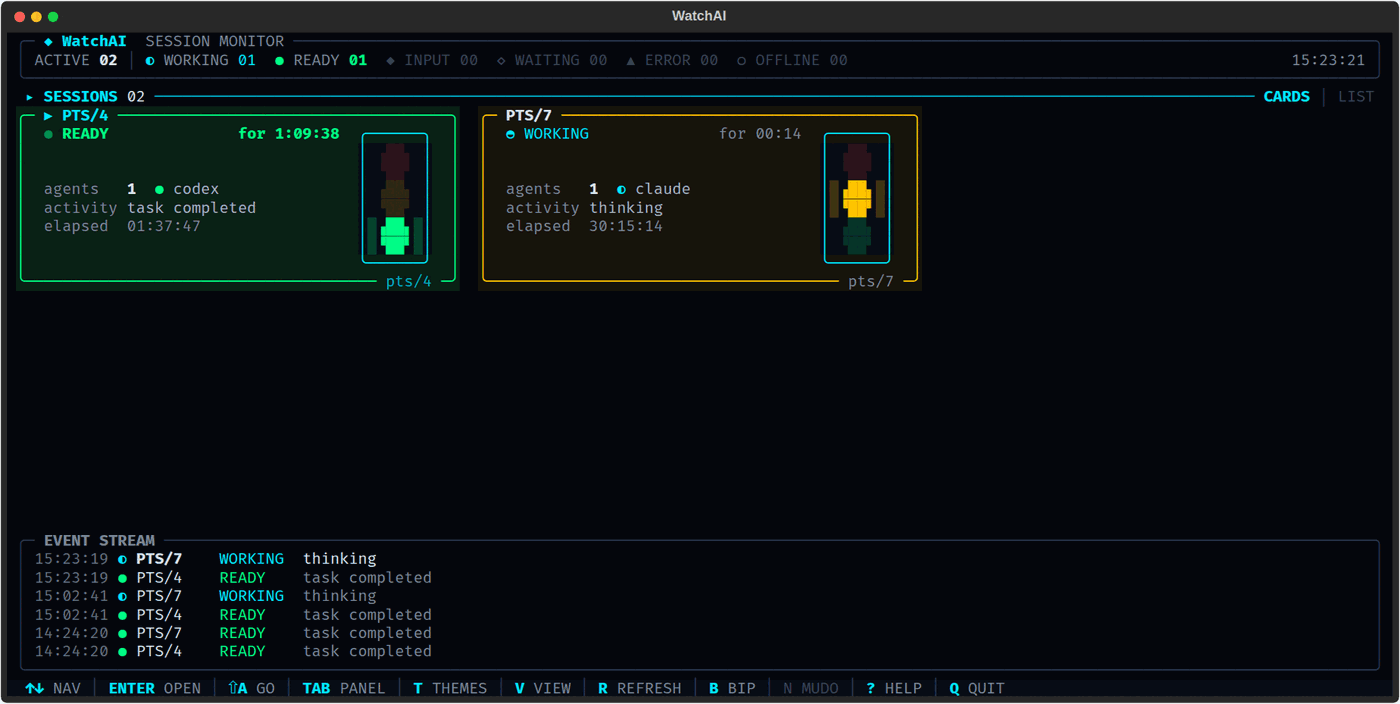
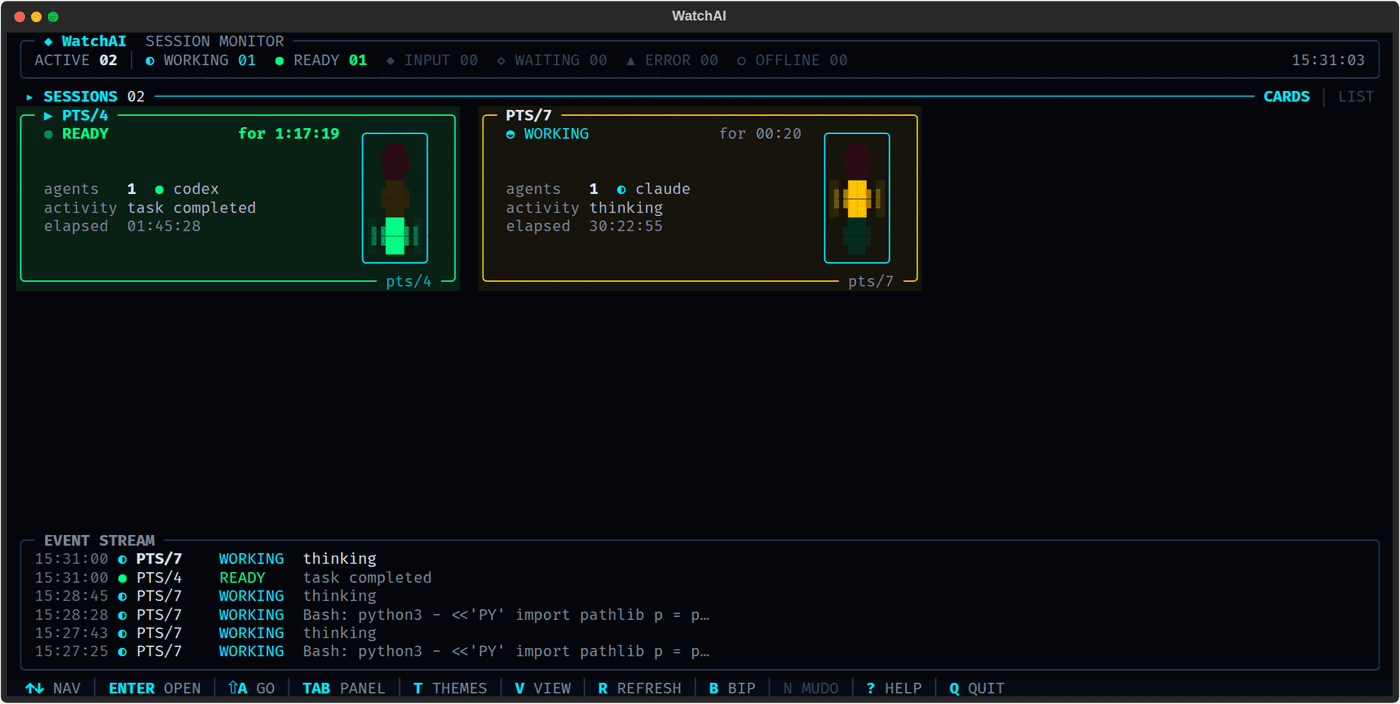
feat: semáforo sem fundo e lâmpada acesa em neon
A carcaça perdeu o fundo próprio: o card aparece através dela, no lugar
do retângulo escuro que ficava atrás das lâmpadas.

A lâmpada acesa virou neon de verdade, em quatro camadas de queda —
miolo na cor cheia, ponta cortada num tom intermediário, quadrante de
brilho encostado na bola e o fundo da célula apenas tingido.

O detalhe que fez funcionar: o halo usa o MESMO quadrante da ponta da
bola naquela linha. Tentei antes com meio-bloco inteiro (`▐`/`▌`) e o
resultado foi uma barra separada da bola por um vão — só que o vão não
era erro de alinhamento, era o próprio canto cortado dela. Medi os
pixels para ter certeza disso antes de mudar. Seguindo a silhueta, o
brilho encosta onde a bola é larga e recua onde ela é cortada.

diff --git a/src/watchai/widgets/traffic_light.py b/src/watchai/widgets/traffic_light.py
@@ -18,7 +18,8 @@ caracteres permite — em vez de um ponto. Em terminais estreitos entra a versã
 o que cabe.
 
 É o mesmo semáforo do ícone do app (`assets/watchai.svg`), desenhado em texto:
-carcaça de contorno **cyan**, interior escuro e três lâmpadas. A lâmpada acesa
+carcaça de contorno **cyan**, sem fundo próprio (o card aparece através dela) e
+três lâmpadas. A lâmpada acesa
 **brilha** — cor cheia, negrito e um fundo tingido da própria cor nas três
 células. É o halo que faz o semáforo ser lido antes do texto, do outro lado da
 sala.
@@ -61,8 +62,9 @@ SMALL_HEIGHT = 5
 # quadrado — e aí o corte de um quadrante vale 25% nos dois eixos. Com 5 de
 # largura o corte valeria 10% na horizontal contra 25% na vertical, e o que
 # aparecia era um retângulo de cantos lascados.
-LAMP_TOP = "▗██▖"
-LAMP_BOTTOM = "▝██▘"
+LAMP_RIM_TOP = ("▗", "▖")  # as pontas cortadas: é aqui que mora a borda do neon
+LAMP_RIM_BOTTOM = ("▝", "▘")
+LAMP_CORE = "██"
 LAMP_SMALL = " ● "
 
 CAP_TOP = "╭──────╮"
@@ -70,16 +72,25 @@ CAP_BOTTOM = "╰──────╯"
 SMALL_CAP_TOP = "╭─────╮"
 SMALL_CAP_BOTTOM = "╰─────╯"
 WALL = "│"
-PAD = " "  # a célula entre a parede e a bola: é aqui que mora o halo
+PAD = " "  # a célula entre a parede e a bola, quando a lâmpada está apagada
+
+# Acesa, essa célula vira brilho — e o brilho usa **o mesmo quadrante** da ponta
+# da bola naquela linha. Assim ele acompanha a silhueta: na linha de cima a bola
+# só existe na metade de baixo, e o halo também. Um meio-bloco inteiro ali
+# criaria uma barra separada da bola por um vão (que é o canto cortado dela).
 
 # Quanto do "apagado" da paleta cada caso usa (1.0 = o padrão dela).
 DIM = 1.0
 DIM_OFFLINE = 0.45
 HOUSING_OFFLINE = 0.25
 
-# Fundo tingido atrás da lâmpada acesa: é daqui que vem o destaque.
-GLOW = 0.22
-GLOW_LIGHT = 0.34  # no branco, um tingido fraco não aparece
+# As camadas do neon, do centro para fora: miolo na cor cheia, ponta cortada
+# (RIM), o meio-bloco que encosta na bola (HUG) e o tingido de fundo que sobra
+# na célula (GLOW).
+RIM = 0.62
+HUG = 0.45
+GLOW = 0.16
+GLOW_LIGHT = 0.26  # no branco, um tingido fraco não aparece
 
 RED_LAMP, AMBER_LAMP, GREEN_LAMP = 0, 1, 2
 LAMPS = 3
@@ -141,30 +152,34 @@ class TrafficLight(Widget):
             return None
         return lamp
 
-    def _lamp_style(self, index: int, lit: int | None) -> Style:
-        """A lâmpada. O fundo é sempre o interior da carcaça: é o que deixa os
-        cantos cortados aparecerem e a bola ficar **redonda** — pintar o fundo
-        atrás dela a transformaria num retângulo."""
+    def _lamp_styles(self, index: int, lit: int | None) -> tuple[Style, Style]:
+        """(miolo, ponta) da lâmpada. Sem fundo próprio: o card aparece atrás,
+        e é isso que deixa as pontas cortadas cortarem de verdade.
+
+        Acesa, a ponta vem num tom intermediário — a borda difusa do neon.
+        """
         paleta = colors()
         color = lamp_colors()[index]
-        dentro = self._inside()
         if index == lit:
-            return Style(color=color, bgcolor=dentro, bold=True)
+            return (
+                Style(color=color, bold=True),
+                Style(color=blend(color, paleta.bg, RIM)),
+            )
         forca = DIM_OFFLINE if self.status is Status.OFFLINE else DIM
-        return Style(color=paleta.off(color, forca, sobre=dentro), bgcolor=dentro)
+        apagada = Style(color=paleta.off(color, forca))
+        return apagada, apagada
 
     def _pad_style(self, index: int, lit: int | None) -> Style:
-        """As células ao lado da bola: no acesa, elas viram o halo."""
-        dentro = self._inside()
+        """As células ao lado da bola: na acesa, elas são o brilho que escapa."""
         if index != lit:
-            return Style(bgcolor=dentro)
+            return Style()
         paleta = colors()
+        cor = lamp_colors()[index]
         brilho = GLOW if paleta.dark else GLOW_LIGHT
-        return Style(bgcolor=blend(lamp_colors()[index], dentro, brilho))
-
-    def _inside(self) -> str:
-        """O fundo de dentro da carcaça — o `#080D16` do ícone, na paleta ativa."""
-        return colors().bg2
+        return Style(
+            color=blend(cor, paleta.bg, HUG),
+            bgcolor=blend(cor, paleta.bg, brilho),
+        )
 
     def _housing_style(self) -> Style:
         """A carcaça é cyan, como no ícone; OFFLINE a apaga."""
@@ -174,8 +189,8 @@ class TrafficLight(Widget):
         return Style(color=cor)
 
     def _wall_style(self) -> Style:
-        """Parede: contorno cyan, fundo do interior — o mesmo da lâmpada."""
-        return self._housing_style() + Style(bgcolor=self._inside())
+        """Parede: só o contorno cyan, sem fundo."""
+        return self._housing_style()
 
     def render(self) -> Text:
         lit = self.lit_lamp()
@@ -184,19 +199,26 @@ class TrafficLight(Widget):
         pequeno = self.small
         topo = SMALL_CAP_TOP if pequeno else CAP_TOP
         base = SMALL_CAP_BOTTOM if pequeno else CAP_BOTTOM
-        linhas = (LAMP_SMALL,) if pequeno else (LAMP_TOP, LAMP_BOTTOM)
+        linhas = (LAMP_SMALL,) if pequeno else (LAMP_RIM_TOP, LAMP_RIM_BOTTOM)
 
         out = Text(no_wrap=True)
         out.append(topo, housing)
         for index in range(LAMPS):
-            estilo = self._lamp_style(index, lit)
+            miolo, ponta = self._lamp_styles(index, lit)
             halo = self._pad_style(index, lit)
-            for linha in linhas:
+            for pontas in linhas:
                 out.append("\n")
+                aceso = index == lit
+                esquerda, direita = (PAD, PAD) if pequeno else pontas
                 out.append(WALL, parede)
-                out.append(PAD, halo)
-                out.append(linha, estilo)
-                out.append(PAD, halo)
+                out.append(esquerda if aceso and not pequeno else PAD, halo)
+                if pequeno:
+                    out.append(LAMP_SMALL, miolo)
+                else:
+                    out.append(esquerda, ponta)
+                    out.append(LAMP_CORE, miolo)
+                    out.append(direita, ponta)
+                out.append(direita if aceso and not pequeno else PAD, halo)
                 out.append(WALL, parede)
         out.append("\n")
         out.append(base, housing)

diff --git a/README.md b/README.md
@@ -405,12 +405,18 @@ horizontal contra 25% na vertical — e o que aparecia era um retângulo de cant
 lascados.
 
 É **o mesmo semáforo do ícone do app** ([`assets/watchai.svg`](assets/watchai.svg))
-desenhado em texto: carcaça de contorno cyan, interior escuro e três lâmpadas.
+desenhado em texto: carcaça de contorno cyan, **sem fundo próprio** — o card
+aparece através dela — e três lâmpadas.
 
-**A lâmpada acesa brilha**: cor cheia, negrito e um halo tingido da própria cor
-nas células ao lado da bola — ao lado, e não atrás, senão o fundo preencheria os
-cantos cortados e a bola viraria um retângulo. É esse halo que faz o semáforo
-ser lido antes do texto, de longe e de canto de olho.
+**A lâmpada acesa é neon**, em quatro camadas do centro para fora: miolo na cor
+cheia e em negrito; as pontas cortadas num tom intermediário (a borda difusa);
+o quadrante ao lado da bola num tom mais fraco (o brilho que encosta); e o
+fundo da célula apenas tingido (o brilho que escapa).
+
+O halo usa **o mesmo quadrante da ponta da bola naquela linha**, e não um
+meio-bloco inteiro: assim ele acompanha a silhueta. Na linha de cima a bola só
+existe na metade de baixo — o halo também. Um bloco inteiro ali viraria uma
+barra separada da bola por um vão, que é justamente o canto cortado dela.
 
 Como num semáforo de verdade, as lâmpadas apagadas não somem: ficam num tom bem
 escuro da própria cor. OFFLINE apaga as três e escurece a carcaça. INPUT é o

diff --git a/CHANGELOG.md b/CHANGELOG.md
@@ -43,6 +43,13 @@ versionamento conforme [SemVer](https://semver.org/lang/pt-BR/).
   proporção do terminal é um quadrado. Antes o corte valia 10% na horizontal
   contra 25% na vertical, e o resultado era um retângulo de cantos lascados.
 
+- **Semáforo sem fundo próprio**: a carcaça ficou transparente e o card aparece
+  através dela, em vez do retângulo escuro que havia atrás das lâmpadas.
+- **Lâmpada acesa em neon**, com quatro camadas de queda: miolo cheio, ponta
+  cortada em tom intermediário, quadrante de brilho encostado na bola e fundo
+  da célula tingido. O halo segue a **silhueta** da bola (mesmo quadrante da
+  ponta naquela linha), senão vira uma barra separada por um vão.
+
 ### Corrigido
 - Matar um processo de notificação que já havia morrido sozinho levantava
   `ProcessLookupError` e chegava como **falha de worker** — o CI do Windows
